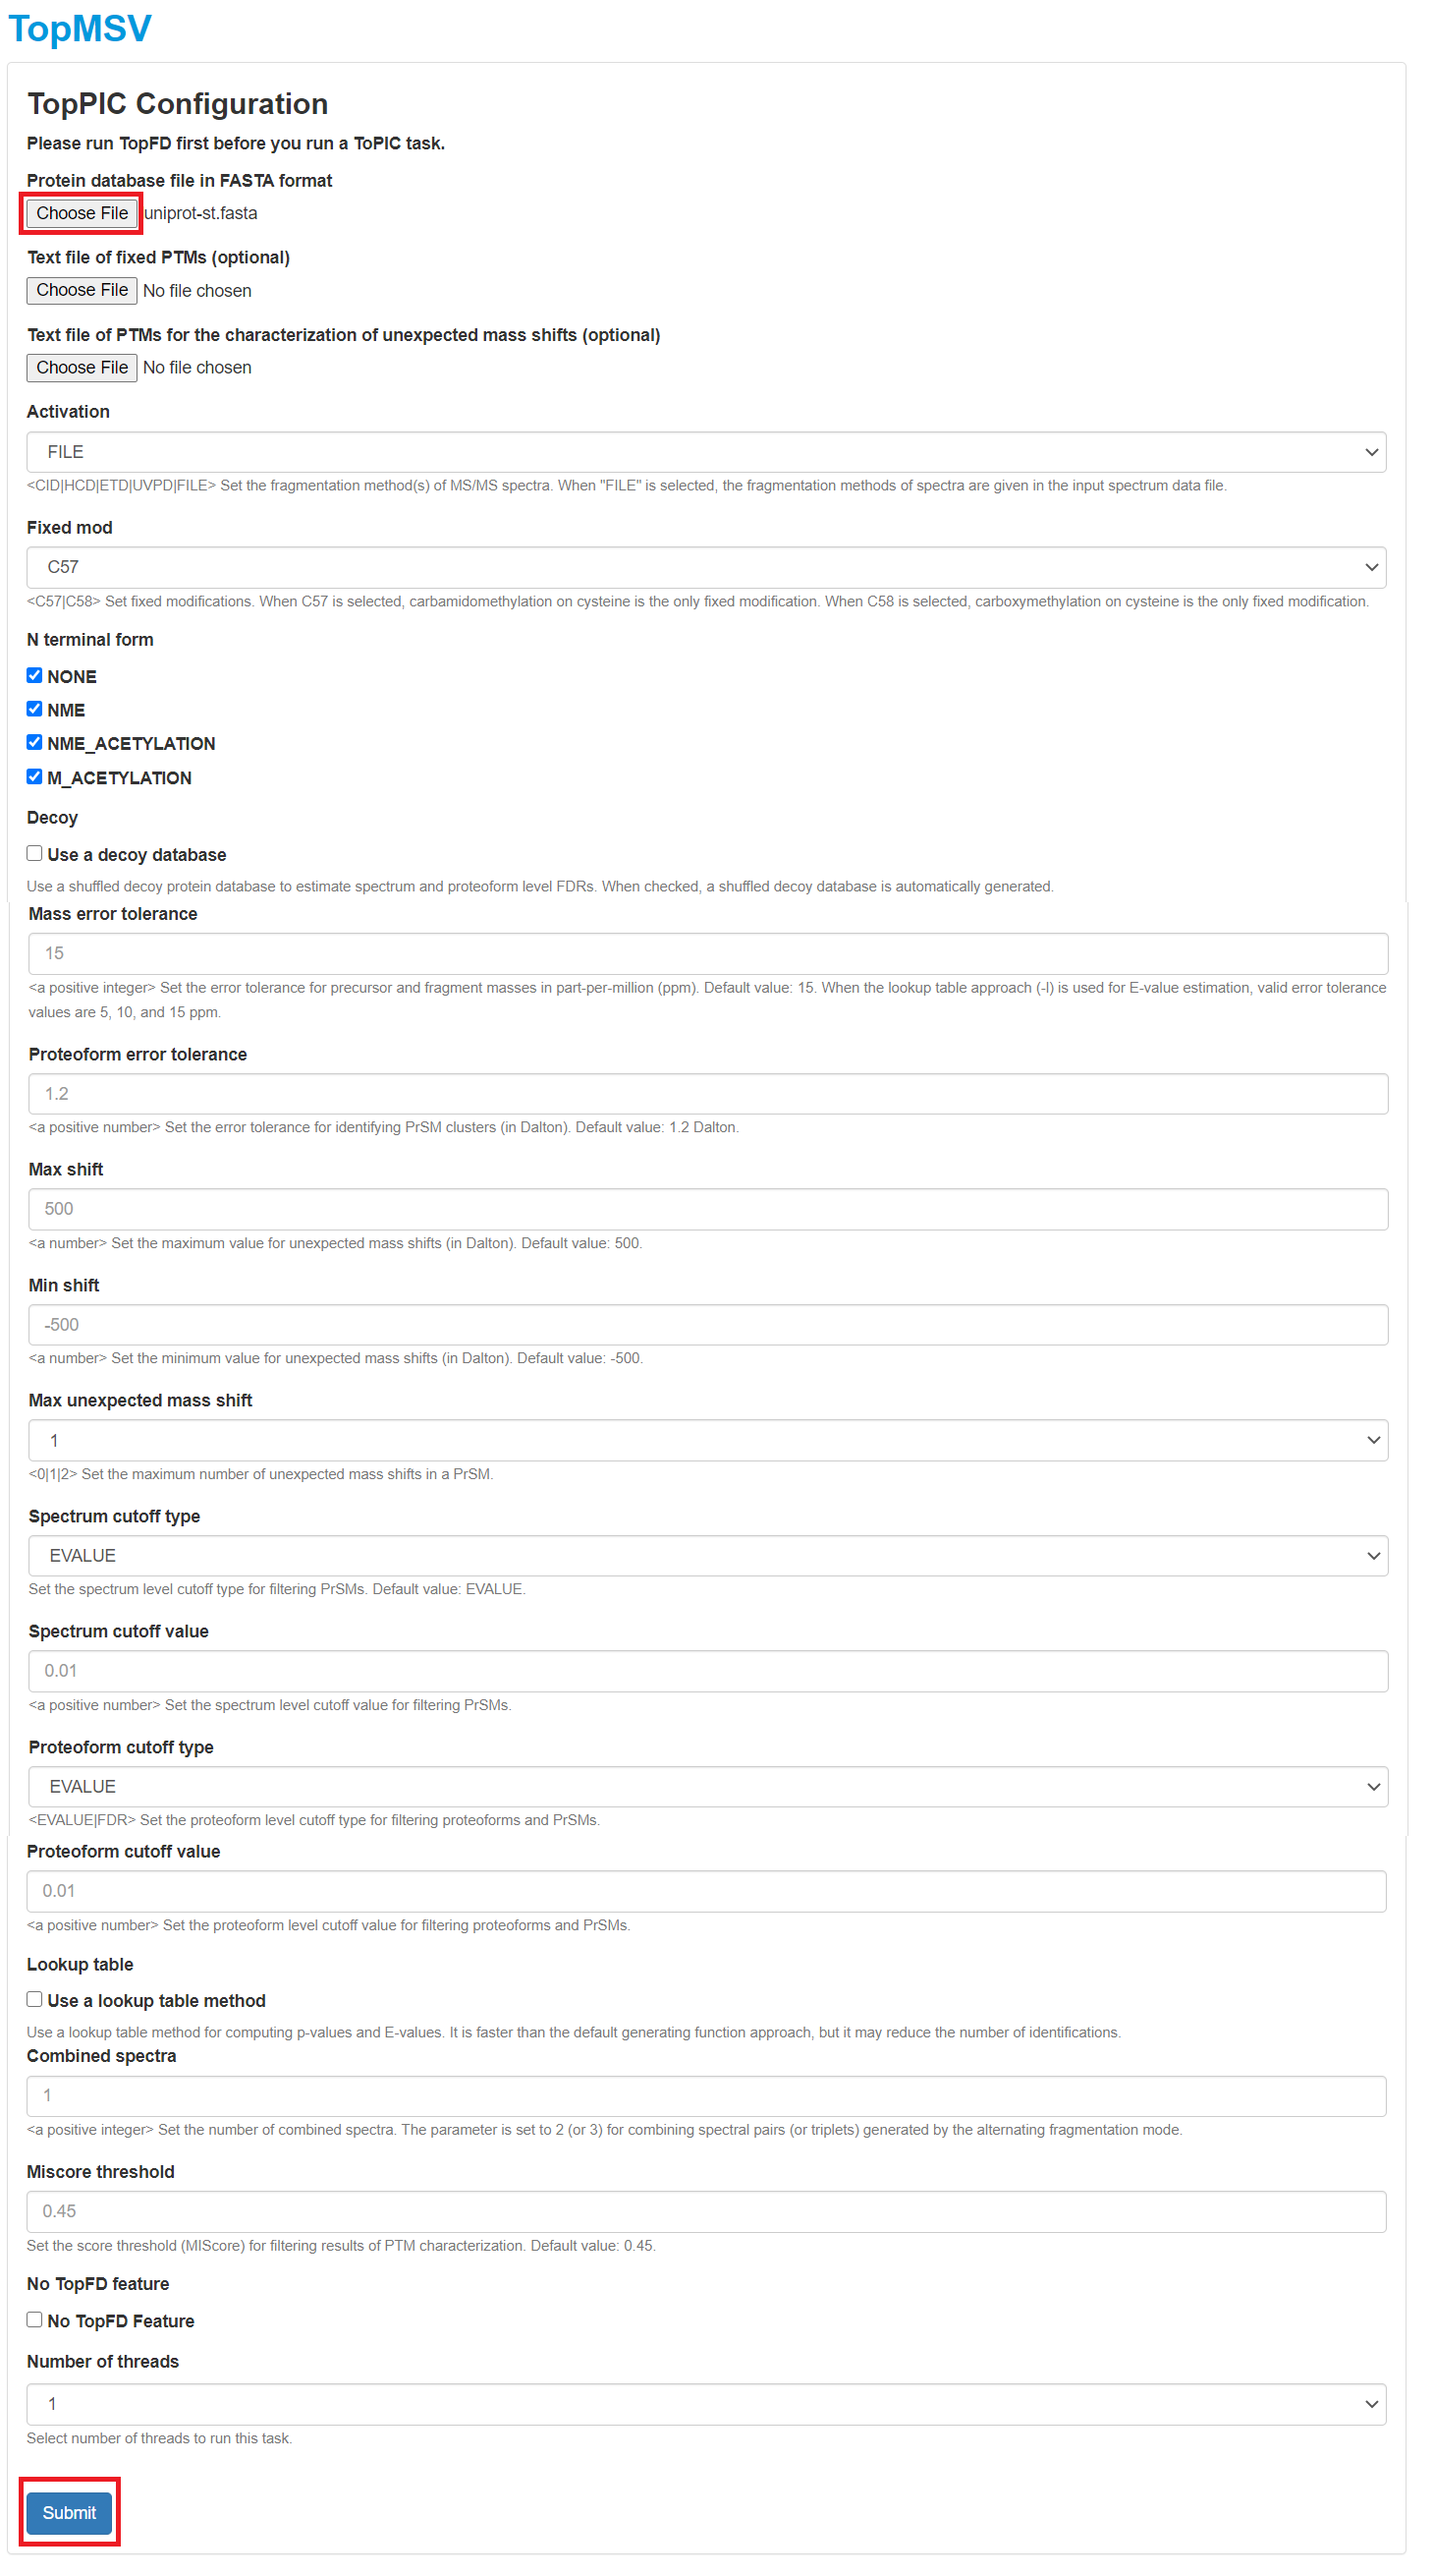
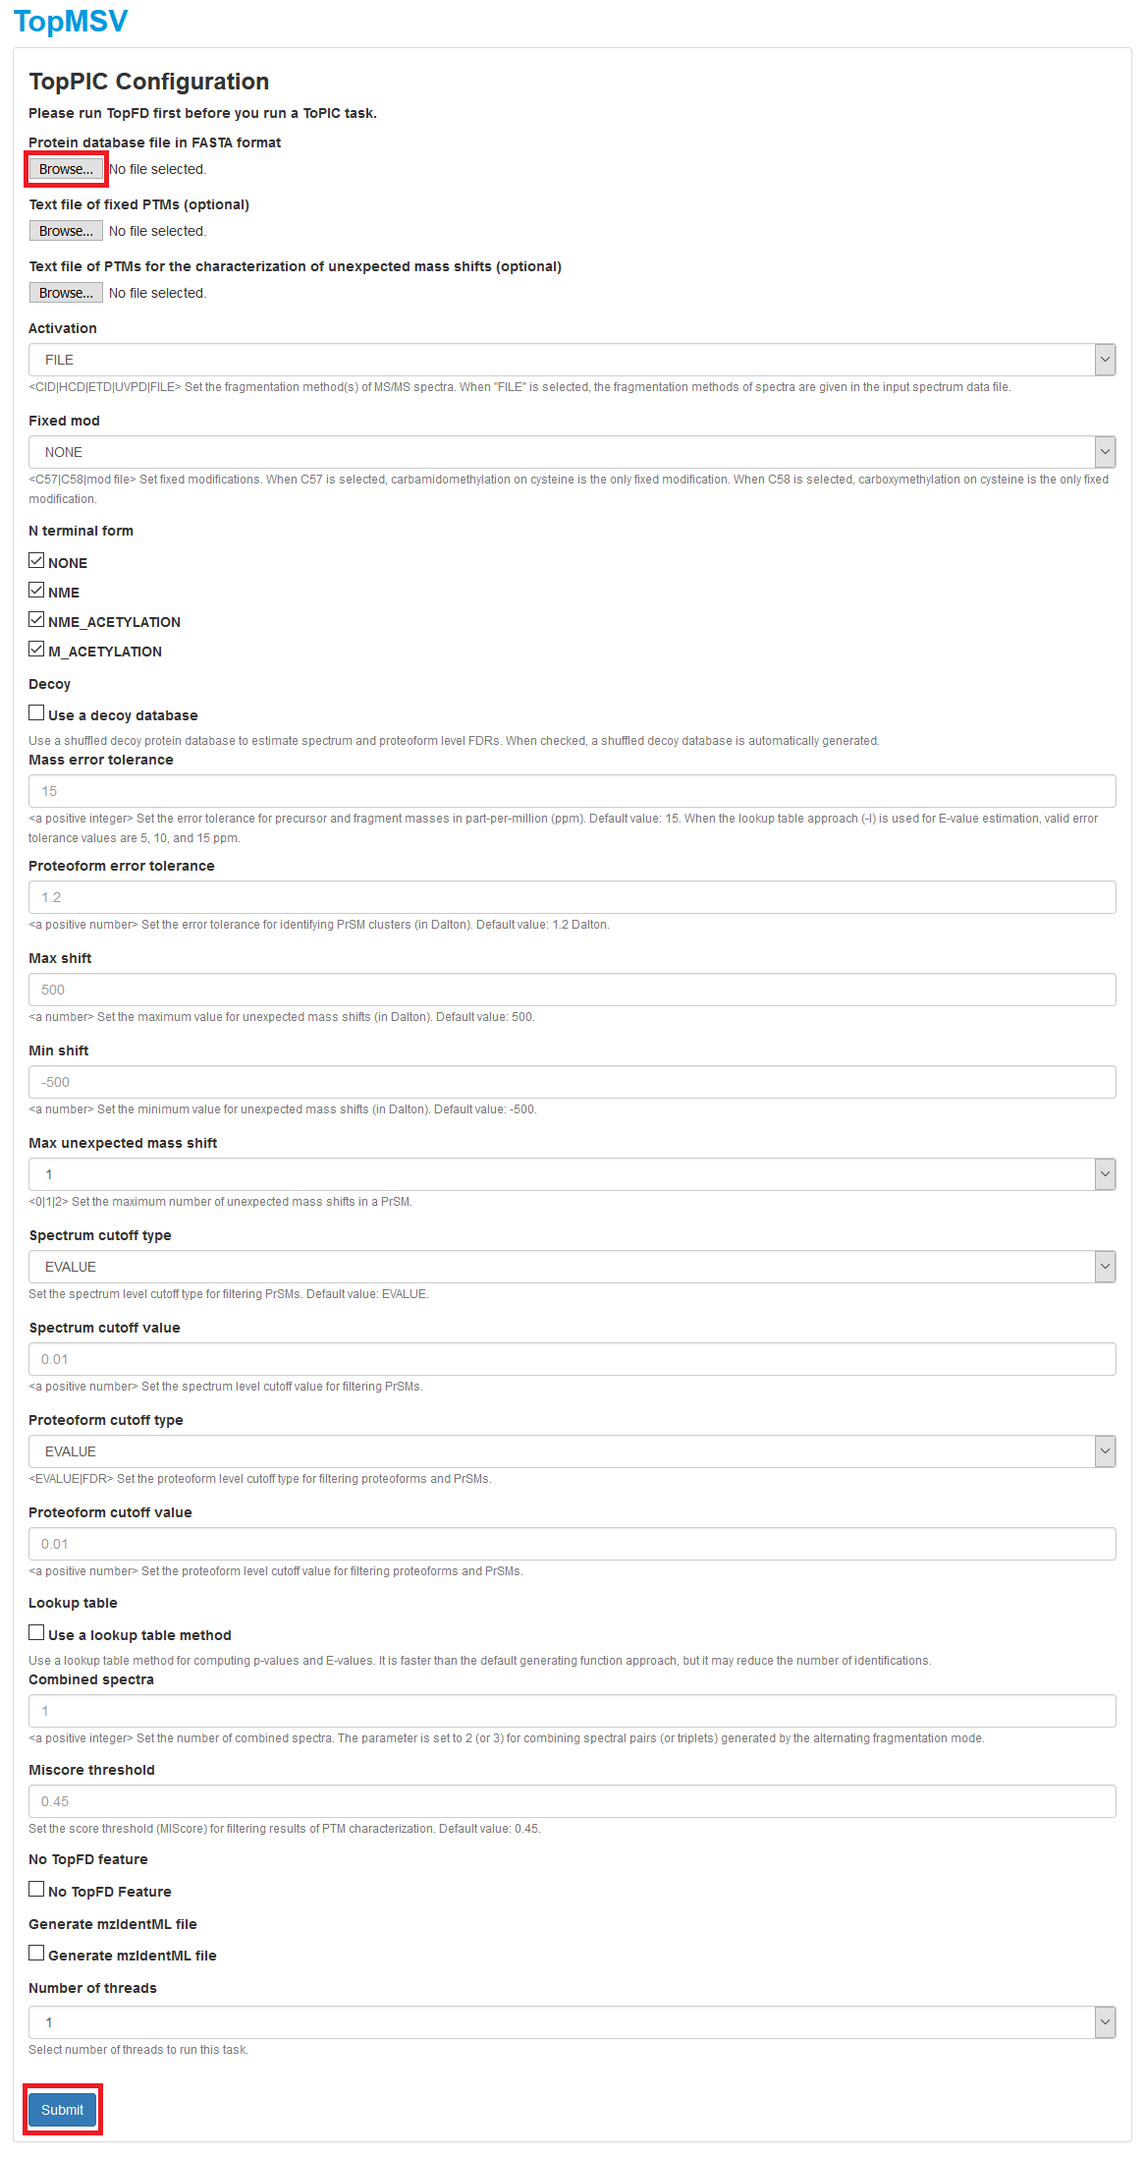
Added mzidGenerator & auth information

diff --git a/tutorial.html b/tutorial.html
@@ -82,6 +82,37 @@ cd ../../public/resources/topview
 npm install
 cd ../../..</pre>
         </li>
+        <li>Install dependencies for mzid generator program
+          <pre>
+#only if Python is not installed already (python2 is compatiable)
+sudo apt-get install python3.6
+            
+#install required packages for the program
+#use pip2 if using python2
+pip3 install lxml
+pip3 install six
+pip3 install sqlalchemy
+pip3 install numpy
+pip3 install pyteomics
+</pre>
+
+        </li>
+        <li>Create <a href="https://support.google.com/googleapi/answer/6158849?hl=en">Google OAuth 2.0 credentials</a> and enter the credentials in auth.js file. 
+          <pre>
+#auth.js file
+...
+passport.use(new GoogleStrategy({
+clientID: "<b>ENTER YOUR CREDENTIALS HERE</b>",
+clientSecret: "<b>ENTER YOUR CREDENTIALS HERE</b>",
+callbackURL: 'http://localhost:8443/auth/google/callback'
+}, (token, refreshToken, profile, done) => {
+    return done(null, {
+      profile: profile,
+      token: token
+    });
+}));
+          </pre>
+        </li>
         <li>Start the server. 
           <pre>npm start</pre>
         </li>

diff --git a/index.html b/index.html
@@ -39,7 +39,7 @@
       is a web-based application for visualizing LC/MS and MS/MS data. 
       It provides interactive 2D and 3D views of MS data and functions for top-down MS 
       spectral deconvolution and identification. It is available online at <a href="https://toppic.soic.iupui.edu">https://toppic.soic.iupui.edu</a>.</p>
-      <p>The source codes for TopMSV are available for download as a zip file. 
+      <p>The source codes for TopMSV are available for download as a zip file. It can also be downloaded from a <a href="https://github.com/toppic-suite/topmsv/releases/latest">github repository</a>.
         Step-by-step installation guide can also be found at the <a href="tutorial.html">Tutorial</a> page.</p>
       
         <p>Please note that the local installation of TopMSV is currently supported in Linux only. </p>
